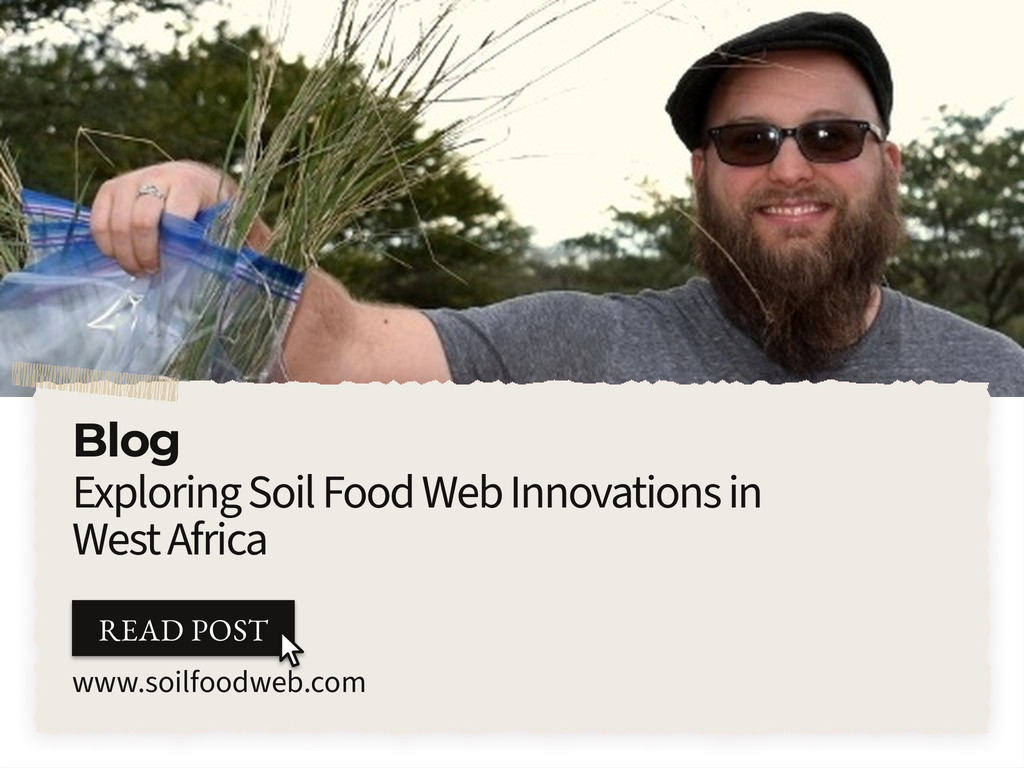
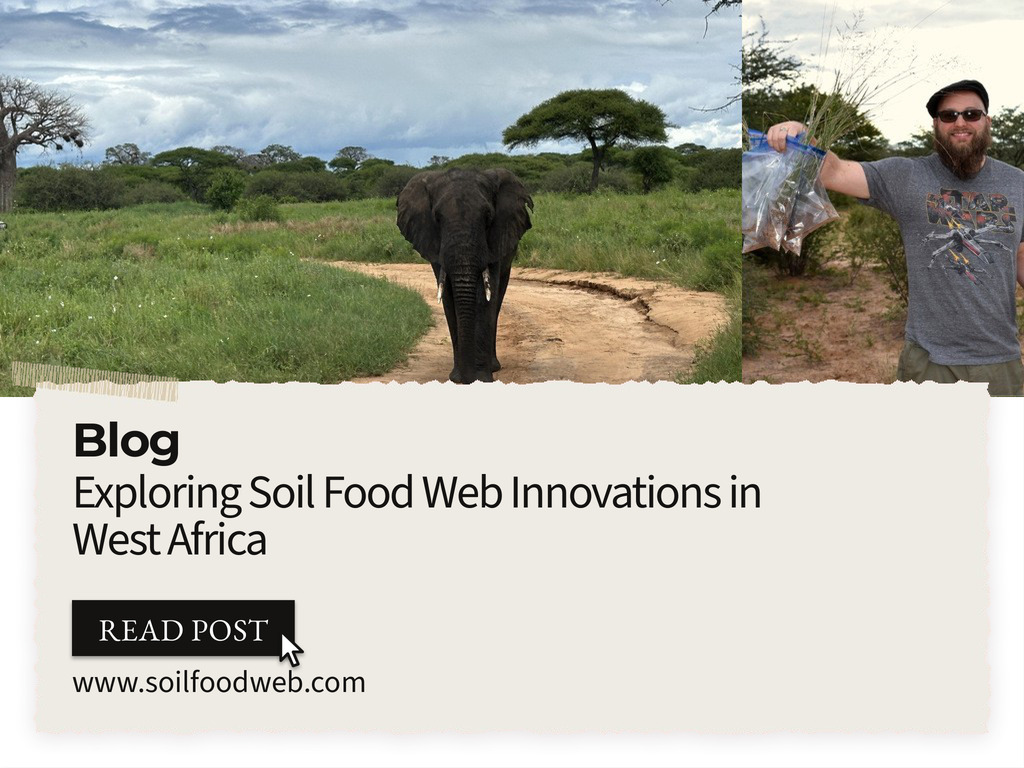
West Africa header: elephant centred beside Adam on tablet and thumbnail
Claude-Session: https://claude.ai/code/session_01LLv6pkd6pVHpjELa35dCxs

diff --git a/tools/blog-cards/build.py b/tools/blog-cards/build.py
@@ -233,7 +233,7 @@ WIDE = {
 WHOLE_PANEL = {'exploring-soil-food-web-innovations-in-west-africa'}   # the panel shows the whole photo, no side crop
 PANEL_ALWAYS = {'new-board-member-eric-feiler'}   # the whole face as a panel in every size
 PANEL_ON_WIDE = {'exploring-soil-food-web-innovations-in-west-africa', 'sadhguru-and-the-soil-food-web', 'sacramento-food-knowledge-culture', 'new-board-member-eric-feiler'}
-NO_PANEL = {('exploring-soil-food-web-innovations-in-west-africa', k) for k in ('tablet-header-1024x768', 'mobile-header-750x1000', 'feature-social-1400x1400', 'thumbnail-1200x800')}   # Adam alone; the elephant only beside him on desktop
+NO_PANEL = {('exploring-soil-food-web-innovations-in-west-africa', k) for k in ('mobile-header-750x1000', 'feature-social-1400x1400')}   # Adam alone; the elephant beside him on desktop, tablet and thumbnail
 # hand-set crops (fractions of the source photo) where the automatic one misses the point of the picture
 # a different source photo for one size of a post
 IMG_BY_KEY = {
@@ -246,8 +246,6 @@ HEADS_BY_PHOTO = {
  },
 }
 CROP = {
- ('exploring-soil-food-web-innovations-in-west-africa', 'tablet-header-1024x768'): (0, .195, 1, .55),   # Adam's face and the bags in his hand
- ('exploring-soil-food-web-innovations-in-west-africa', 'thumbnail-1200x800'):     (0, .195, 1, .55),
  ('2024-a-year-in-review', 'desktop-header-1920x720'): (0, .15, .9, .55),   # Elaine a little higher in the frame
  ('exploring-soil-food-web-innovations-in-west-africa', 'mobile-header-750x1000'): (0, .10, 1, .66),   # Adam and the sample bags, filling the frame
  ('student-profile-su-kahumbu-stephanou', 'mobile-header-750x1000'): (.17, 0, .643, 1),   # Su and the calf she is petting
@@ -575,6 +573,8 @@ def brand_slide(slide, post, key, W, H):
             bh = max(int(Hk * r[1]), int(Hk * .3)) + int(Hk * .06)   # runs under the paper's edge: no strip of the second photo shows
             bw = min(Wk, int(bh * src.width / src.height * (1.0 if slug in WHOLE_PANEL else 1.1)))
             bx = Wk - bw
+            if slug in WHOLE_PANEL:                 # the second photograph centred in its own space, left of the panel
+                img.paste(ImageOps.fit(A, (bx, Hk), Image.LANCZOS, centering=afocus), (0, 0))
             panel = cover(src, bw, bh, focus, slug=slug)
             img.paste(panel, (bx, 0))
         else:                                     # card at the side: the panel takes the rest of the width
